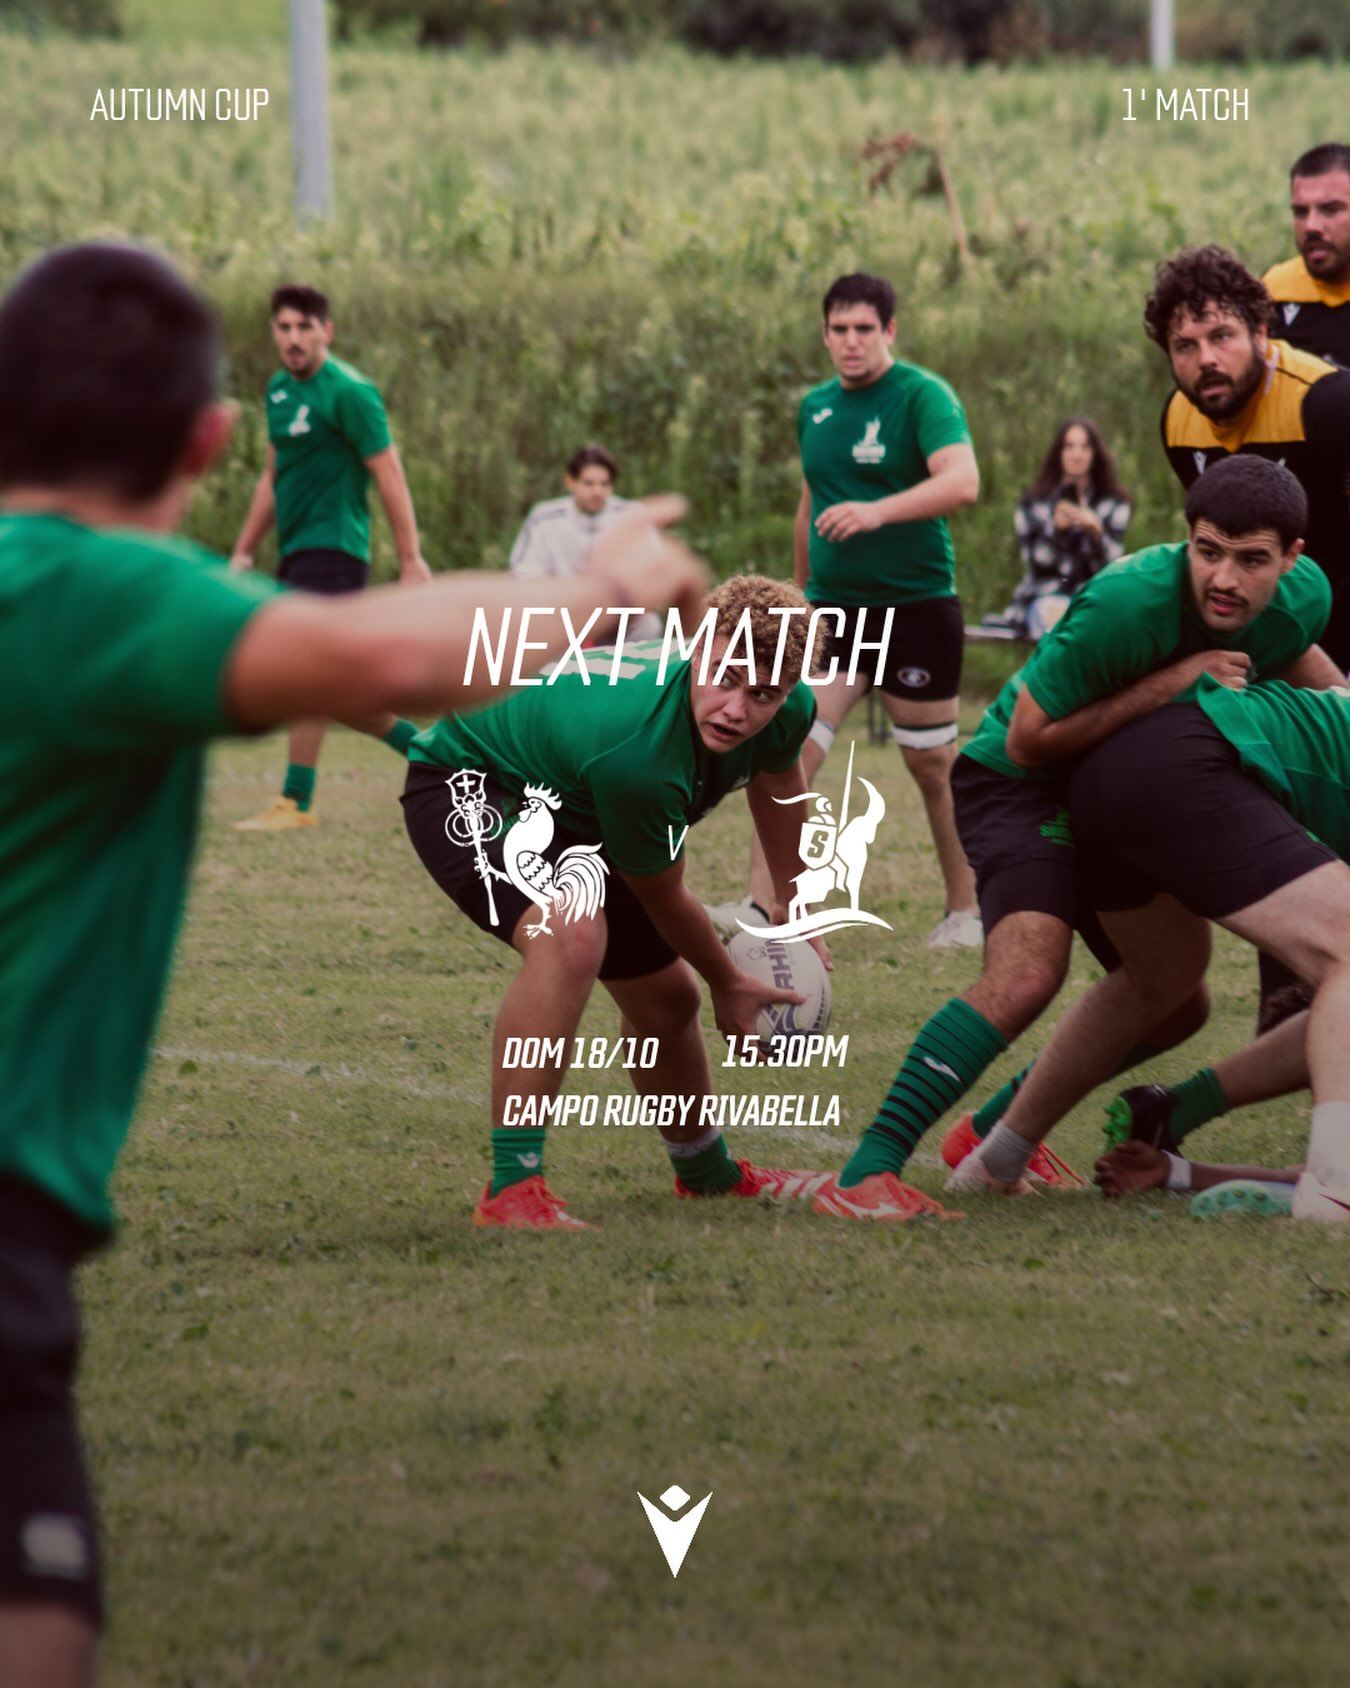
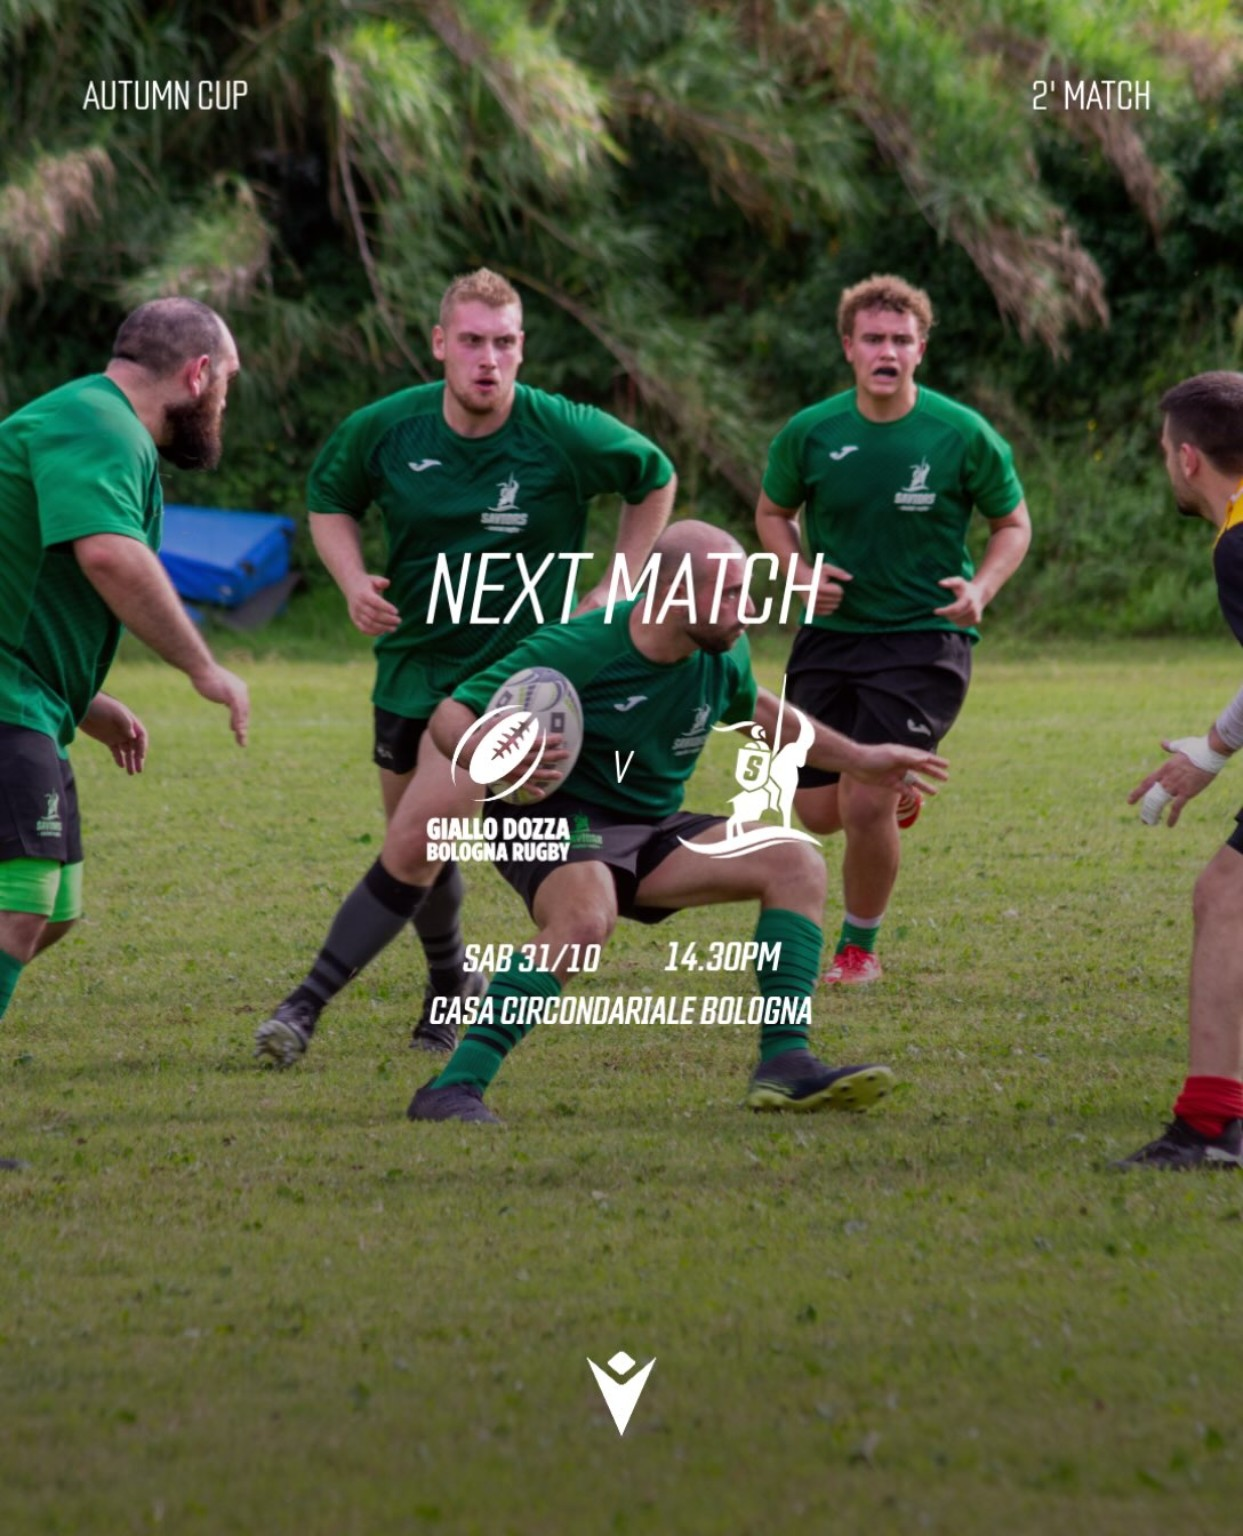
update

diff --git a/layouts/partials/next-match.html b/layouts/partials/next-match.html
@@ -55,7 +55,7 @@
   <div style="background-color: #1c8a37" class="h-[2px] mt-4 mb-2"></div>
   <div class="flex items-center justify-center">
       {{/* Date/time comes from kickoff, not a separately-typed string, so it can't drift out of sync with the countdown above. */}}
-      <p class="text-sm h-full text-center">{{ $match.competition }}{{ with $match.kickoff }} - {{ dateFormat "02/01/2006 15:04" . }}{{ end }} @ {{ $match.venue }}</p>
+      <p class="text-sm h-full text-center">{{ with $match.competition }}{{ . }}{{ end }}{{ with $match.kickoff }}{{ if $match.competition }} - {{ end }}{{ dateFormat "02/01/2006 15:04" . }}{{ end }}{{ with $match.venue }}{{ if or $match.competition $match.kickoff }} @ {{ end }}{{ . }}{{ end }}</p>
   </div>
 </div>
 {{ with $match.kickoff }}

diff --git a/content/posts/news/last-match/index.md b/content/posts/news/last-match/index.md
@@ -1,24 +1,25 @@
 ---
-title: "Ultimo Match:<br/>Faenza Rugby vs Saviors Social Rugby (34 - 22)"
-date: "2025-12-08"
+title: "Risultato:<br/>Romagna RFC 38 - 24 Saviors Social Rugby"
+date: "2026-10-16"
 sharingLinks:
   - facebook
   - whatsapp
   - telegram
 tags:
-  - Faenza
   - Saviors
+  - Romagna
 showDate: false
 showHeadingAnchors: false
 showHero: false
+featureimage: featured.jpg
 weight: 1
-draft: true
+draft: false
 ---
 
-![](./featured.jpg)
+![Risultato finale: Romagna RFC 38 - 24 Saviors Social Rugby — 1ᵃ partita Autumn Cup](./featured.jpg)
 
-| Giornata   | Data       | Orario | Casa         | Ospiti                       | Indirizzo                               |
-| ---------- | ---------- | ------ | ------------ | ---------------------------- | --------------------------------------- |
-| 7ᵃ Ritorno | 03/05/2026 | 15:30  | Faenza Rugby | **Saviors Social Rugby ASD** | Via Viara, Castel San Pietro Terme (BO) |
+| Giornata                                  | Data       | Orario | Casa        | Ospiti                      | Campo                  | Risultato |
+| ----------------------------------------- | ---------- | ------ | ----------- | --------------------------- | ---------------------- | --------- |
+| 1ᵃ partita Autumn Cup (Trofeo Foglia 150cc) | 18/10/2026 | 15:30  | Romagna RFC | **Saviors Social Rugby ASD** | Campo Rugby Rivabella | **38 - 24** |
 
-![](./team.jpg)
+Romagna RFC vince per **38 - 24** contro i Saviors Social Rugby.

diff --git a/content/posts/news/next-match/index.md b/content/posts/news/next-match/index.md
@@ -1,22 +1,25 @@
 ---
-title: "Prossimo Match:<br/>Romagna RFC vs Saviors Social Rugby"
-date: "2026-10-16"
+title: "Prossimo Match:<br/>Giallo Dozza Bologna vs Saviors Social Rugby"
+date: "2026-10-31"
 sharingLinks:
   - facebook
   - whatsapp
   - telegram
 tags:
   - Saviors
-  - Romagna
+  - Dozza
 showDate: false
 showHeadingAnchors: false
 showHero: false
+featureimage: featured.jpg
 weight: 1
 draft: false
 ---
 
-![Romagna RFC vs Saviors Social Rugby — 1ᵃ partita Autumn Cup (Trofeo Foglia 150cc), domenica 18 ottobre alle 15:30 al Campo Rugby Rivabella](./featured.jpg)
+![Giallo Dozza Bologna vs Saviors Social Rugby — 2ᵃ partita Autumn Cup, 31 ottobre 2026 alle 14:30, Casa circondariale di Bologna (Dozza)](./featured.jpg)
 
-| Giornata                                  | Data       | Orario | Casa        | Ospiti                      | Campo                  |
-| ----------------------------------------- | ---------- | ------ | ----------- | --------------------------- | ---------------------- |
-| 1ᵃ partita Autumn Cup (Trofeo Foglia 150cc) | 18/10/2026 | 15:30  | Romagna RFC | **Saviors Social Rugby ASD** | Campo Rugby Rivabella |
+**Giallo Dozza Bologna vs Saviors Social Rugby ASD**
+
+| Data | Orario | Campo |
+| ---- | ------ | ----- |
+| 31/10/2026 | 14:30 | Casa circondariale “Rocco D’Amato” (Dozza), Via del Gomito 2, 40127 Bologna (BO) |
